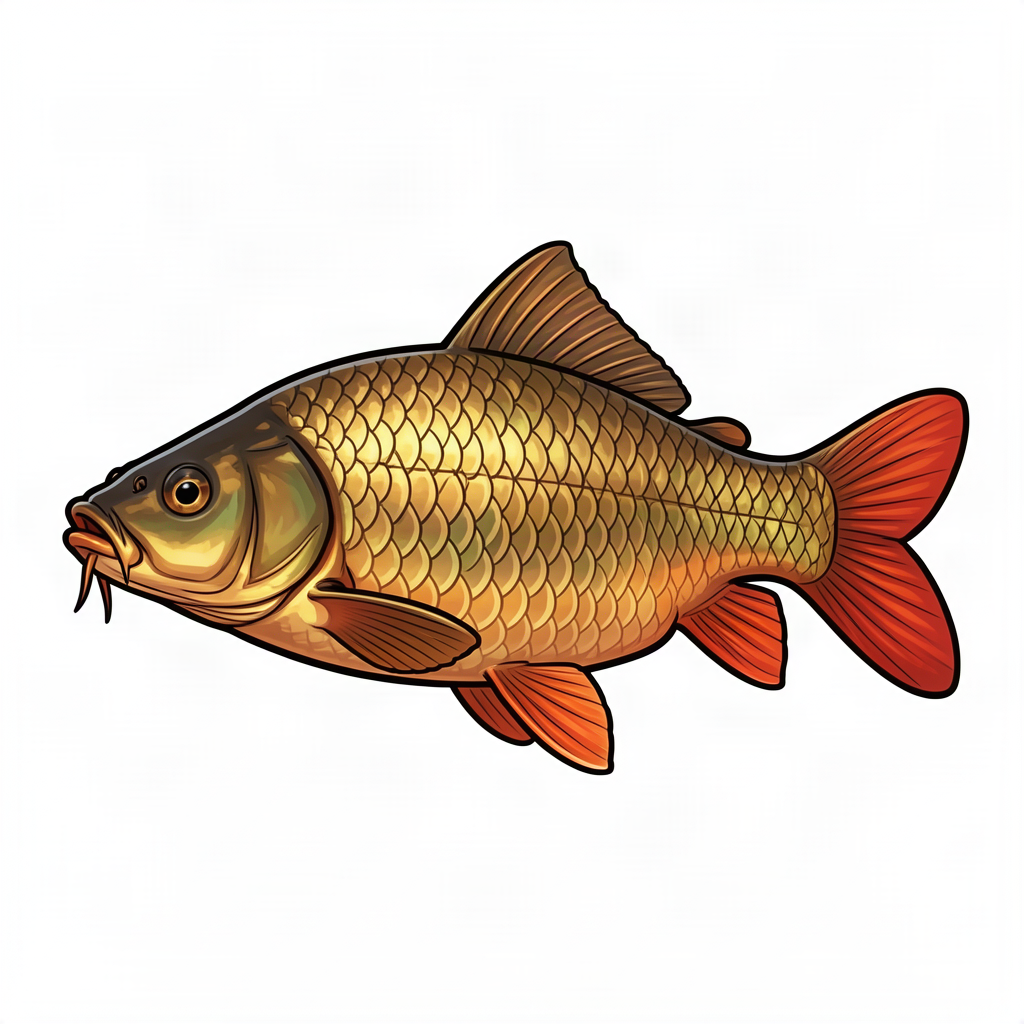
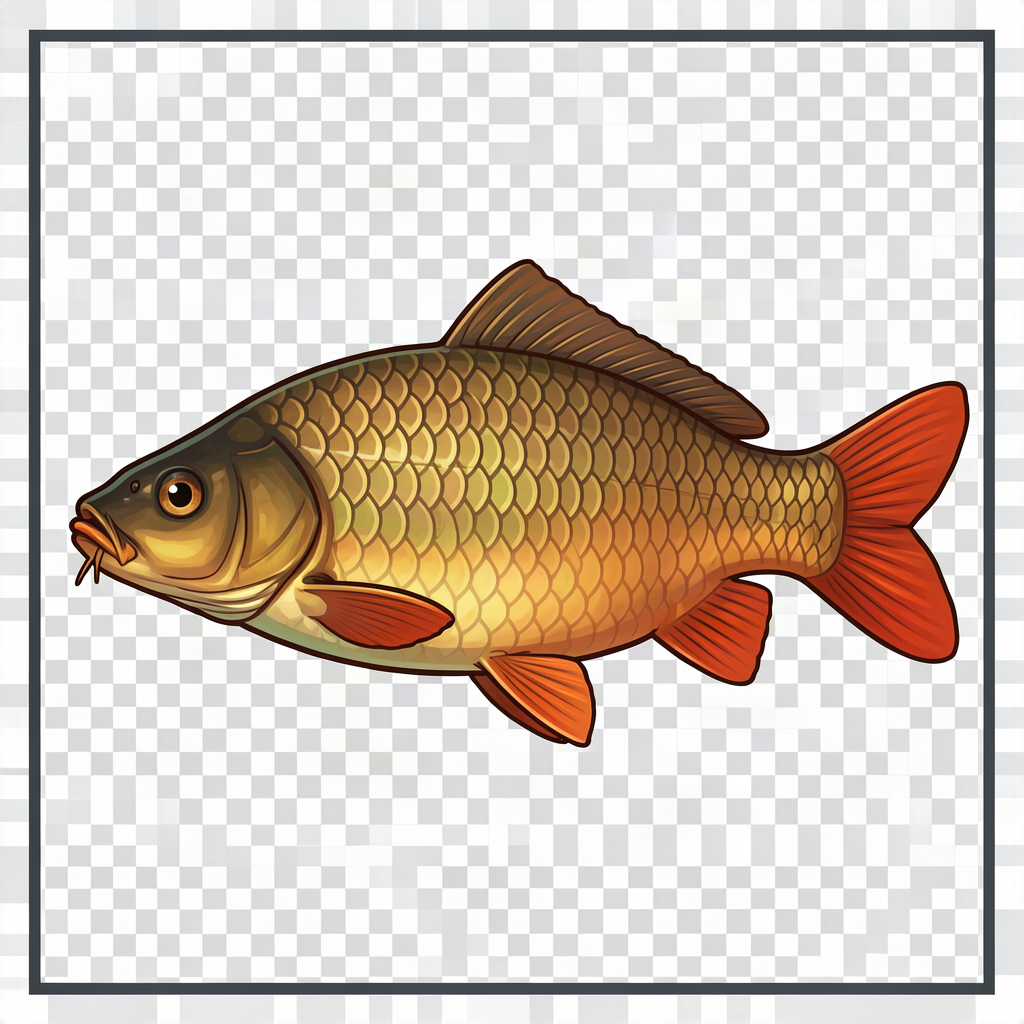
feat: add crucian carp species with transparent artwork and card path

diff --git a/js/fish.js b/js/fish.js
@@ -524,7 +524,8 @@ const Fish = (function () {
             leather: 'img/carp/leather-carp.png',
             ghost: 'img/carp/ghost-carp.png',
             koi: 'img/carp/koi-carp.png',
-            grass: 'img/carp/grass-carp.png'
+            grass: 'img/carp/grass-carp.png',
+            crucian: 'img/carp/crucian-carp.png'
         };
         return map[speciesKey] || '';
     }
